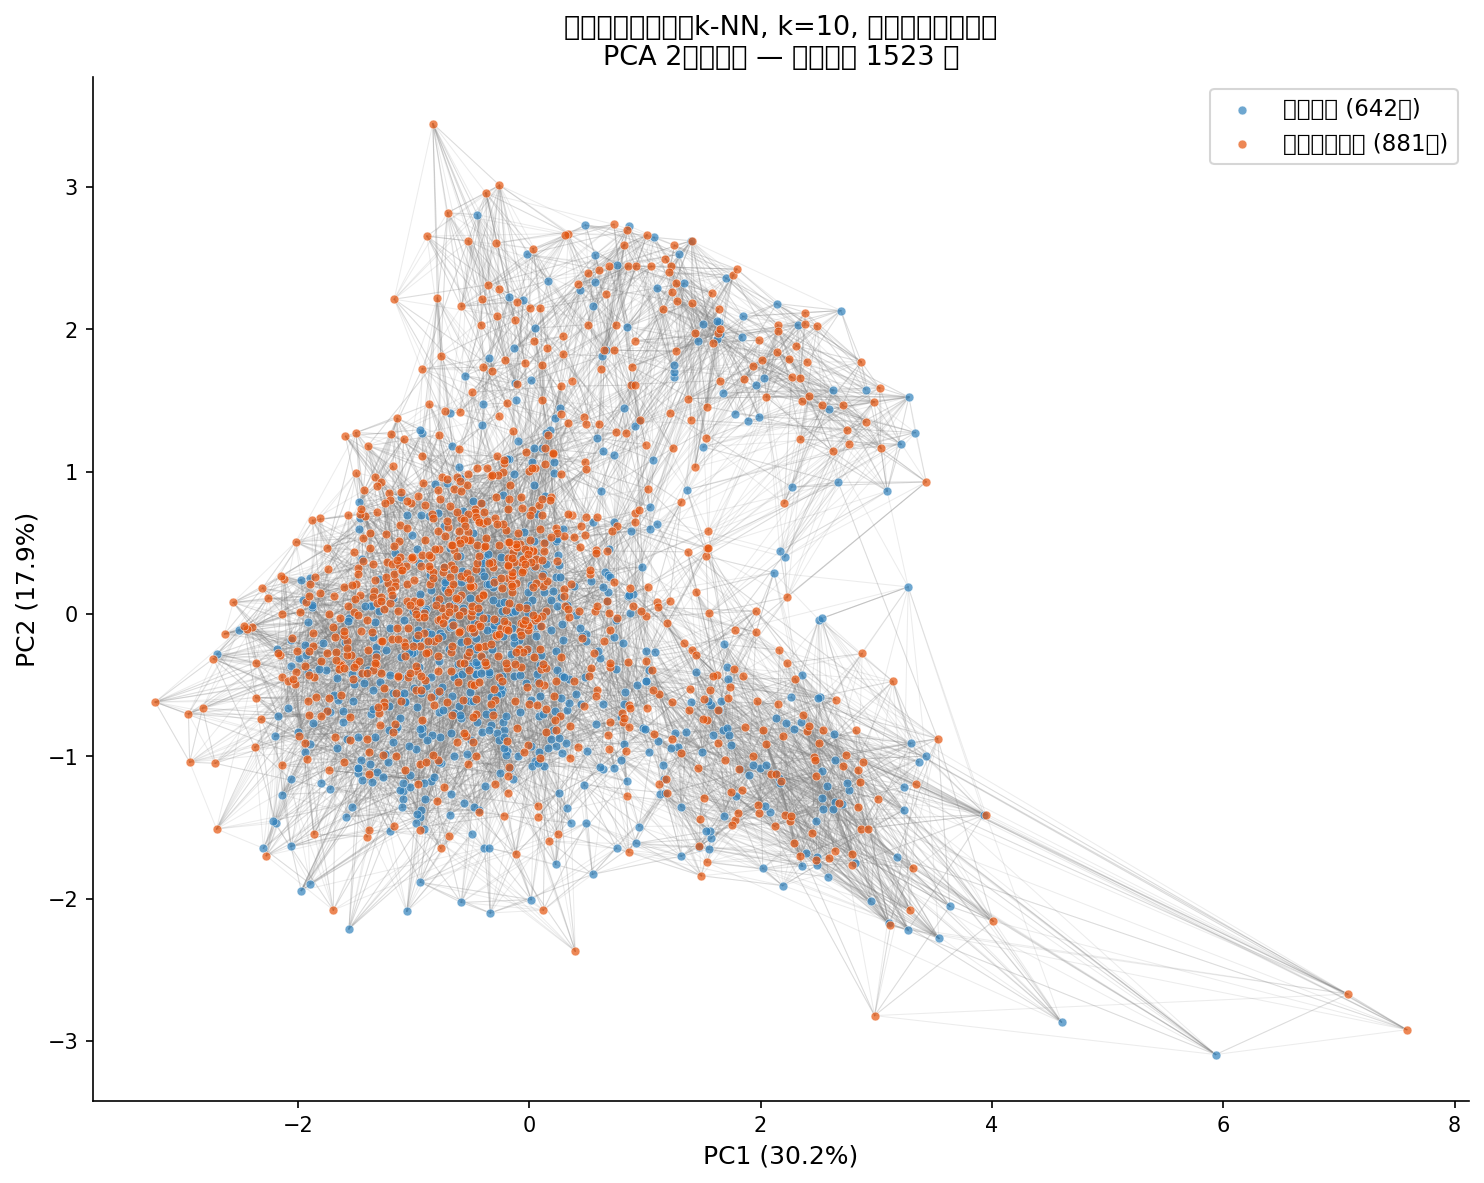
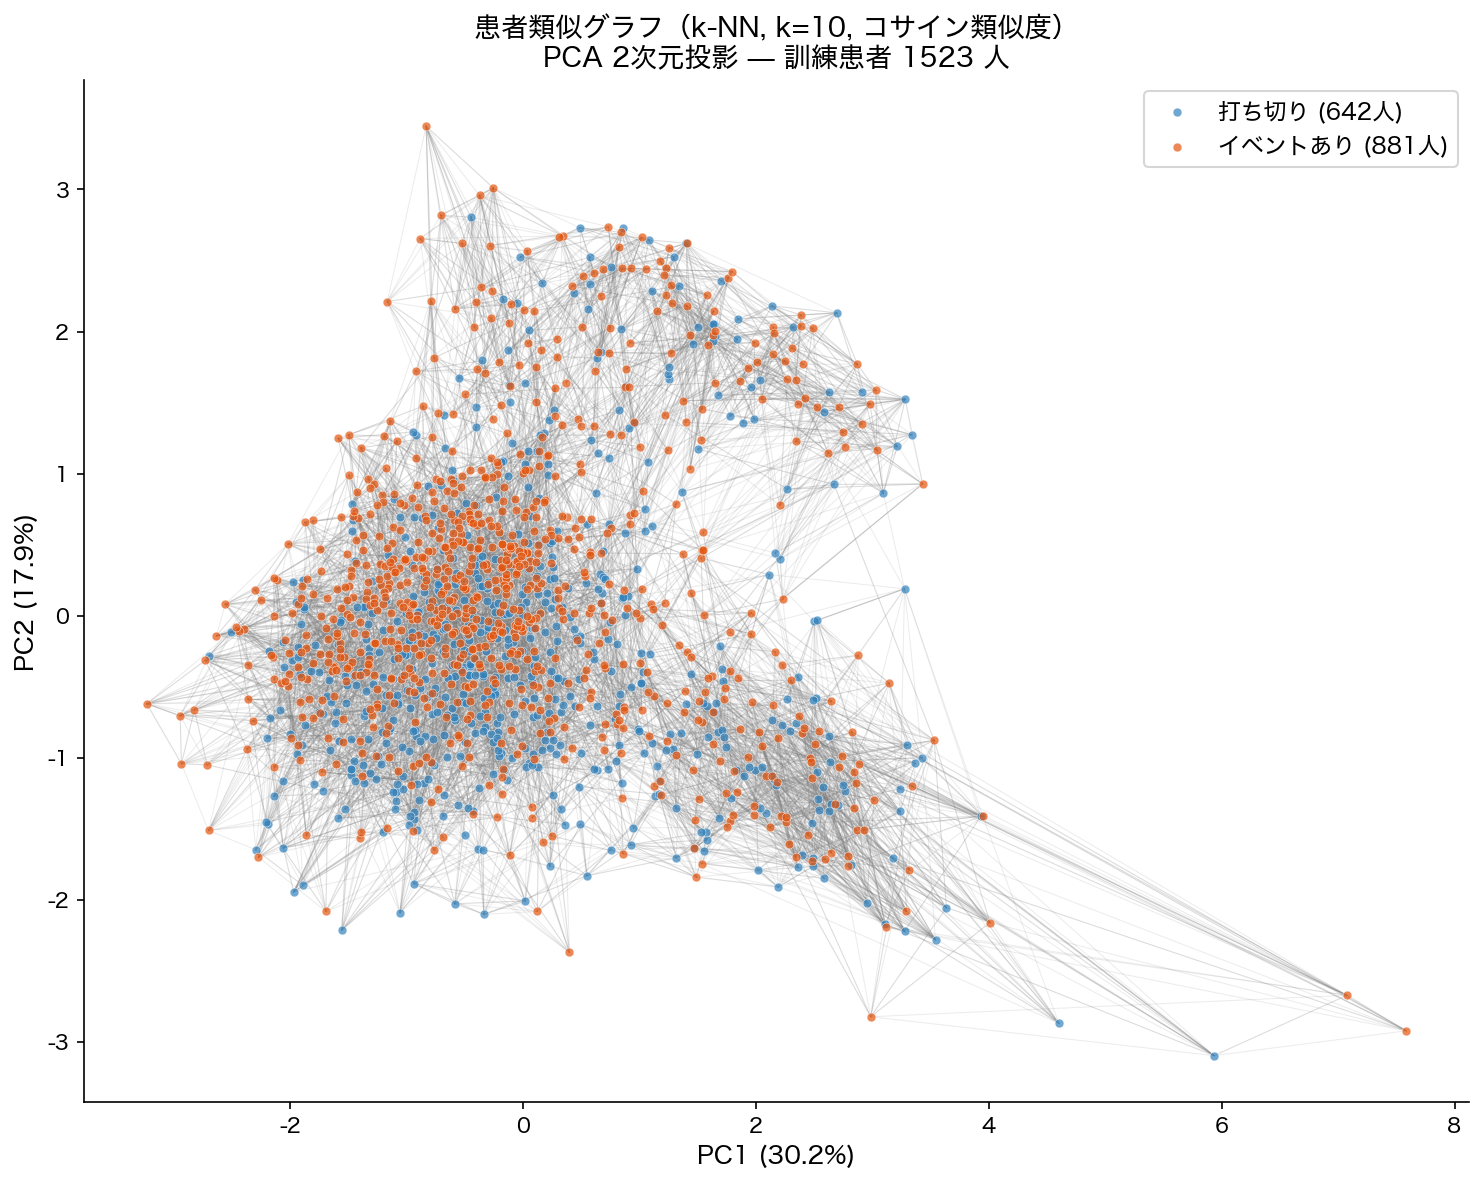
fix: use Hiragino Sans font to fix Japanese text rendering in plots

diff --git a/Vanlentin's pipeline/src/survival_analysis/experiments/visualize.py b/Vanlentin's pipeline/src/survival_analysis/experiments/visualize.py
@@ -16,10 +16,20 @@ from functools import partial
 from pathlib import Path
 
 import numpy as np
+import matplotlib
 import matplotlib.pyplot as plt
+import matplotlib.font_manager as fm
 import torch
 import lightning as pl
 from sklearn.decomposition import PCA
+
+# 日本語フォント設定（macOS 標準の Hiragino Sans を優先使用）
+_jp_candidates = ["Hiragino Sans", "Noto Sans JP", "AppleGothic", "YuGothic"]
+_available = {f.name for f in fm.fontManager.ttflist}
+_jp_font = next((f for f in _jp_candidates if f in _available), None)
+if _jp_font:
+    matplotlib.rcParams["font.family"] = _jp_font
+matplotlib.rcParams["axes.unicode_minus"] = False
 
 sys.path.insert(0, str(Path(__file__).parent.parent.parent))
 
